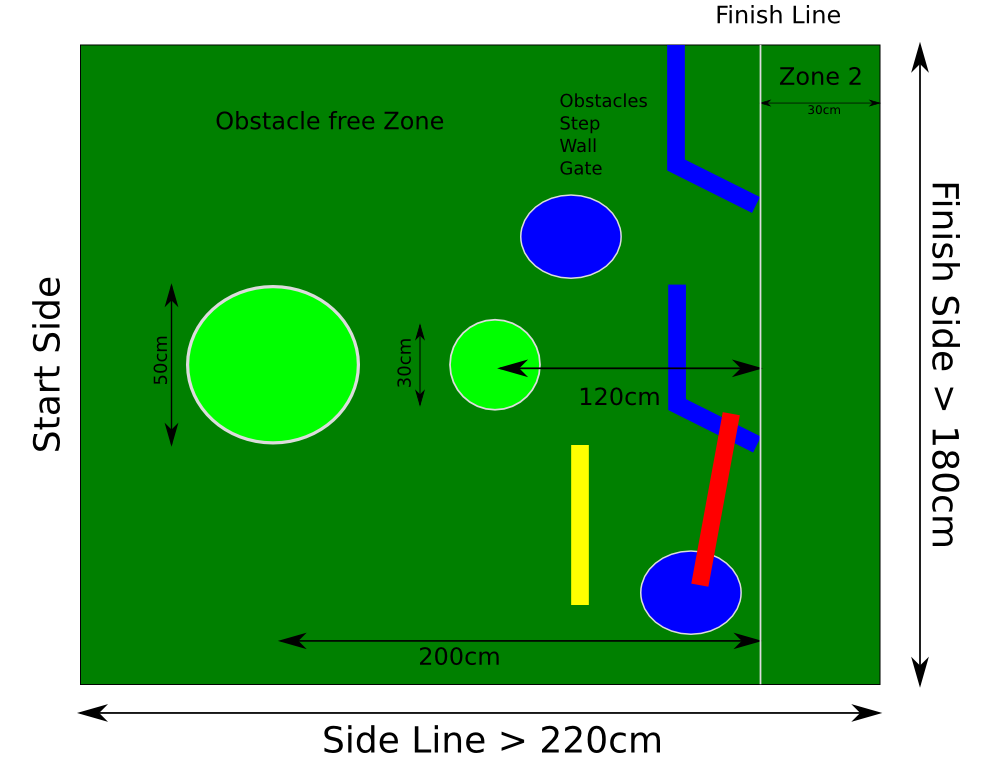
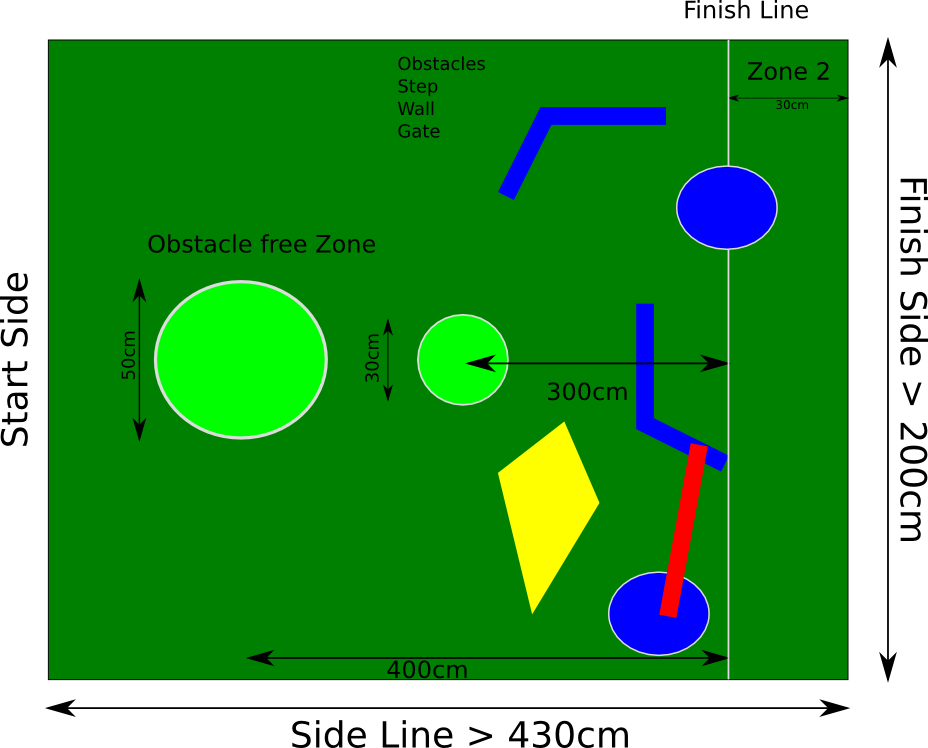
First version for HuroCup 2009

diff --git a/obstacle-run-laws.tex b/obstacle-run-laws.tex
@@ -45,11 +45,10 @@ always available from the FIRA \HuroCup\ website (http://www.fira.net).
 In the obstacle run challenge, the robot must move from one end of the
 playing field to the other as quickly as possible.
 
-There are three types of obstacles in the environment: (a) step
-obstacles that a sufficiently mobile robot can overcome by stepping
-over them, (b) wall obstacles which can not be overcome, and (c) gate
-obstacles that a sufficiently mobile robot can overcome by crawling
-under them.
+There are three types of obstacles in the environment: (a) hole
+obstacles that simulate holes in the floor, (b) wall obstacles which
+can not be overcome, and (c) gate obstacles that a sufficiently mobile
+robot can overcome by crawling under them.
 
 \section{Changes in the Laws of \HuroCup\ Obstacle Run for 2008}
 
@@ -68,8 +67,8 @@ the referees) please refer to the general \HuroCup\ laws.
 \label{law:or-field}
 
 \begin{lawlist}[OR]
-\item The dimensions of the playing field are at least 220cm by
-  180cm. 
+\item The dimensions of the playing field are at least 430cm by
+  200cm. 
 \item There is a finish line marked on one side of the playing field.
   This side of the playing field is called the finish side. The
   opposite side of the playing field is called the start side. The two
@@ -91,14 +90,14 @@ the referees) please refer to the general \HuroCup\ laws.
   of the playing field. The distance between the start point and the
   finish line depends on the category of the robot.
   \begin{enumerate}
-  \item The start point for small robots is 120 cm in front of the
+  \item The start point for small robots is 300 cm in front of the
     finish line. 
-  \item The start point for large robots is 200 cm in front of the
+  \item The start point for large robots is 400 cm in front of the
     finish line. 
   \end{enumerate}
-\item Teams may place small coloured or infra red markers in the area
-  behind the end zone to guide the robot as long as they do not
-  interfere with other teams.
+\item Teams may place small coloured markers in the area behind the
+  end zone to guide the robot as long as they do not interfere with
+  other teams.
 \end{lawlist}
 
 \law[OR]{Obstacles}
@@ -106,9 +105,9 @@ the referees) please refer to the general \HuroCup\ laws.
 
 \begin{lawlist}[OR]
 
-\item \label{or-obs-step} A step obstacle is a low obstacle. This type
-of obstacle is at most 2.5cm high and less than 5mm wide and a minimum
-length of 40cm. The colour of a step obstacle is yellow.
+\item \label{or-obs-hole} A hole obstacle is a thin obstacle on the
+  playing field. The shape and size of the hole obstacles is
+  undefined. The colour of a hole obstacle is yellow.
 
 \item \label{or-obs-wall} A wall obstacle is an obstacle that is
 placed on the floor and has a height of approximately 30cm. It has
@@ -117,8 +116,6 @@ a minimum length of 40cm. The colour of a wall obstacle is blue.
 \item \label{or-obs-gate} A gate obstacle is an obstacle that is
 placed at a height of approximately 30cm. It has
 a minimum length of 40cm. The colour of a gate obstacle is red.
-
-\item The shape of an obstacle is a either flat or circular.
 
 \item The following figure shows pictures of suitable obstacle.
 
@@ -156,6 +153,15 @@ a minimum length of 40cm. The colour of a gate obstacle is red.
     40cm as can be seen in Fig.~\ref{fig:obstacle-run}. 
   \end{itemize}
 \end{lawlist}
+
+\begin{decisions}
+
+\item A hole obstacle is supposed to simulate holes in the playing
+  field. Therefore, a robot is not allowed to touch such an
+  obstacle. However, the robot is allowed to step over a thin hole
+  obstacle
+
+\end{decisions}
 
 \law[OR]{Number of Robots}
 
@@ -218,9 +224,9 @@ the assitant referee.
     elapsed. 
   \item the robot is immobilized by a technical defect,
   \item the robot leaves the playing field,
-  \item the robot touches one of the wall or gate obstacles (In case
-    the obstacle was moved by the robot, the obstacle will be
-    repositioned by the referee),  
+  \item the robot touches one of the wall, hole, or gate obstacles (In
+    case the obstacle was moved by the robot, the obstacle will be
+    repositioned by the referee),
   \item at least two minutes have elapsed since the start of the
     competition and it is unlikely in the opinion of the referee that
     the robot will cross the finish line within the minute,

diff --git a/weight-lifting-laws.tex b/weight-lifting-laws.tex
@@ -65,13 +65,15 @@ the referees) please refer to the general \HuroCup\ laws.
 minimum dimension of 1.8m by 1.8m.
 
 \item There are three lines marked on the playing field: (a) the start line,
- (b) the lift line, and (c) the final line. The distance between the
+ (b) the lift line, and (c) the finish line. The distance between the
  start line and the lift line and the lift line and the finish line is
  30cm for small robots and 50cm for large robots.
 
-\item Teams may place small coloured or infra red markers in the area
- behind the end zone to guide the robot as long as they do not
- interfere with other teams.
+\item The width of the start, lift, and finish lines is between 3 to 7cm.
+
+\item Teams may place small coloured markers in the area behind the
+  end zone to guide the robot as long as they do not interfere with
+  other teams.
 
 \begin{figure}
   \begin{center}
@@ -81,14 +83,22 @@ minimum dimension of 1.8m by 1.8m.
 
 \end{lawlist}
 
+\begin{decisions}
+
+\item Teams are reminded that all sensing of the robot should be
+  similar to human sensing. This means that special light sensors or
+  infra-red sensors to detect the lines are not allowed.
+
+\end{decisions}
+
 \law[WL]{The Lifting Bar and the Weights}
 
 \begin{lawlist}[WL]
 
 \item The lifting bar is a wodden, metal, or plastic bar with a width
- between 8 mm to 15mm. Two stops are used to mount the weights. The
-distance between the inner stops is 30cm. The total length of the
-lifting bar is between 40 - 50cm.
+  between 8 mm to 15mm. Two stops are used to mount the weights. The
+  distance between the inner stops is at least 40cm. The total length
+  of the lifting bar is between 50 - 80cm.
 
 \item The ``weights'' used in the competition are standard 5 1/4 inch
  CDs or DVDs that must be lifted by the robot as seen in
@@ -149,13 +159,16 @@ the assitant referee.
 \item The referee will signal the start of the competition by blowing
   the whistle.
 
-\item After the referee gives the start signal, the robot must cross
- the lifting line while carrying the weight below head height of the
- robot.
+\item After the referee gives the start signal, the robot must pick up
+  the lifting bar positioned at the start line.
 
-\item While touching the lifting line, the robot must lift the lifting
- bar above its head. The height difference between the low and heigh
- position must be at least 15cm.
+\item The robot must walk towards the lifting line while continuously
+  carrying the weight below head height until a foot touches the
+  lifting line.
+
+\item While at least one foot is touching the lifting line, the robot
+  must lift the lifting bar above its head. The height difference
+  between the low and high position must be at least 15cm.
 
 \item While keeping the lifting bar above its head, the robot must
  continue to walk towards the finish line. A lift is considered

diff --git a/marathon-laws.tex b/marathon-laws.tex
@@ -47,11 +47,6 @@ the robustness and endurance of humanoid robots. The task is for the
 robot to track a visible line for a distance of 42.195m (1/1000 of a
 human marathon distance) as quickly as possible. 
 
-\section{Changes in the Laws of \HuroCup\ Marathon for 2008}
-
-There are no significant changes in the laws of the marathon event
-between 2007 and 2008.
-
 \section{Laws of the Game: Marathon}
 \label{sec:marathon-laws}
 
@@ -65,7 +60,8 @@ the referees) please refer to the general \HuroCup\ laws.
 
 \begin{lawlist}[MR]
 
-\item The track for the marathon event is on an even surface.
+\item The track for the marathon event is relatively smooth and does
+  not contain any spot with a height difference of more than 5mm.
 
 \item The centre of the track is marked with a 4 - 8cm wide coloured
 line, called the centre line.
@@ -92,6 +88,15 @@ line, called the centre line.
 
 \end{lawlist}
 
+\begin{decisions}
+
+\item The marathon will most likely be performed outdoors during
+  daylight hours. Teams must ensure that their robot is able to deal
+  with varying lighting conditions as well as small cracks or uneven
+  surfaces that may be found on regular pavement or concrete floors.
+
+\end{decisions}
+
 \law[MR]{Number of Robots}
 
 \begin{lawlist}[MR]
@@ -117,10 +122,11 @@ the assitant referee.
 
 \begin{lawlist}[MR]
 
-\item Robots are assigned start numbers. The race commences with a
-  staggered start of 3 minute intervals, that is the robot with start
-  number $n$ will start 3 minutes after the robot with start number
-  $n-1$.
+\item Robots are assigned start numbers approximately based on their
+  performance in the sprint event. Faster robots are given lower start
+  numbers. The race commences with a staggered start of 3 minute
+  intervals, that is the robot with start number $n$ will start 3
+  minutes after the robot with start number $n-1$.
 
 \item The start of a run for a robot is signaled by the referee
   blowing the whistle. After the referee blows the whistle, the robot
@@ -209,6 +215,14 @@ the assitant referee.
 \item \label{inf-batteries} Not withstanding~\ref{inf-fix}, a team is
   not allowed to change the batteries during the competition, changing
   the batteries will immediately terminate the race for this robot.
+
+\item \label{dead-reckoning} The robot must be able to sense the
+  track. A handler is not allowed to re-program the robot to execute a
+  pre-programmed set of motions (dead reckoning) to advance along the
+  track. The referee will imeediately terminate the race for a robot
+  that in the opinion of the referee does not sense the track
+  autonomously.
+
 \end{lawlist}
 
 \law[MR]{Method of Scoring}

diff --git a/hurocup-laws.tex b/hurocup-laws.tex
@@ -37,7 +37,7 @@
 \title{\HuroCup\\
   General Laws of the Game 2008}
 
-\author{Jacky Baltes and Thomas Br\"aunl\\
+\author{Jacky Baltes\\
 Autonomous Agents Laboratory\\
 University of Manitoba\\
 Winnipeg, Manitoba\\
@@ -247,8 +247,8 @@ examples are shown in the Fig.~\ref{fig:foot-dimension}.
   \end{figure}
 
   \begin{itemize}
-    \item \emph{Small robots} are limited to a maximum height of 50cm
-       and a maximum foot dimension of 14cm.
+    \item \emph{Small robots} are limited to a maximum height of 60cm
+       and a maximum foot dimension of 13cm.
     \item \emph{Large robots} must have a height of more than 80cm and
     are limited to a maximum height of 150cm and a maximum foot
     dimension of 35cm.  
@@ -316,9 +316,9 @@ material.
   are special kicking devices on the foot, spinning upper bodies, or
   feet that can kick at a 90 degree angle.
 
-\item The restriction on the sensors of the robot will not be enforced
-  until at least 2007. That is, robots are allowed to use infrared and
-  other sensors without restrictions in the 2007 competition.
+\item In 2009, the restriction on the sensors of the robot will be
+  strictly enforced. In particular, a robot is not allowed to use
+  sonar or infra-red sensors.
 
 \end{decisions}
 

diff --git a/sprint.tex b/sprint.tex
@@ -65,8 +65,8 @@ referees) please refer to the general \HuroCup\ laws.
 
 \begin{lawlist}[RD]
 
-\item The dimensions of the playing field are at least 220cm by
-  180cm. 
+\item The dimensions of the playing field are at least 430 by
+  200cm. 
   
 \item The playing field consists of a race track that run the whole
   width of the playing field.
@@ -89,17 +89,16 @@ referees) please refer to the general \HuroCup\ laws.
   robots. The race tracks are parallel to the side lines.
   \begin{enumerate}
   \item The length of the race track for small robots
-    is 120cm.
+    is 300cm.
   \item The length of the race track for large robots
-    is 200cm.
+    is 400cm.
   \end{enumerate}
 
 \item All lines are marked with are white and have a width between 5mm
   and 15mm.
   
-\item Teams may place small coloured or infra red markers in the end
-  zones to guide the robot as long as they do not interfere with other
-  teams.
+\item Teams may place small coloured markers in the end zones to guide
+  the robot as long as they do not interfere with other teams.
 \end{lawlist}
 
 \law[RD]{Number of Robots}

diff --git a/basketball-laws.tex b/basketball-laws.tex
@@ -75,7 +75,7 @@ the referees) please refer to the general \HuroCup\ laws.
 
   \begin{figure}
     \begin{center}
-      \includegraphics[width=0.7\textwidth]{Figures/basketball}
+      \includegraphics[width=0.7\textwidth]{Figures/basketball-field}
     \end{center}
     \caption{The field of play for basketball}
     \label{fig:field-basketball}
@@ -85,13 +85,13 @@ the referees) please refer to the general \HuroCup\ laws.
 
 \item A three point circle is drawn 
   \begin{itemize}
-    \item 40cm away from the basket for small robots,
+    \item 50cm away from the basket for small robots,
     \item 80cm away from the basket for large robots.
   \end{itemize}
 
 \item The start point for
   \begin{itemize}
-   \item small robots is 50cm in front of the basket in the center of
+   \item small robots is 75cm in front of the basket in the center of
     the playing field. 
    \item large robots is 75cm in front of the basket in the center of
     the playing field.

diff --git a/soccer-laws.tex b/soccer-laws.tex
@@ -166,11 +166,6 @@ individual events.
   individual teams to design their robots to cope with slight
   curvatures of the surface.
 
-\item The local organizing committee will try to provide a white wall at
-least 50cm high around the boundary area of the playing field. This
-will make sure that spectators can not interfere with the robots and
-provides easier localization for robots.
-
 \end{decisions}
 
 \law{The Ball}

diff --git a/lift-and-carry-laws.tex b/lift-and-carry-laws.tex
@@ -106,8 +106,8 @@ have different colours as shown in Fig.~\ref{fig:uneven-terrain}.
     \label{fig:uneven-terrain}
   \end{figure}
 
-\item Teams may place small coloured or infra red markers in the goal
-are as long as they do not interfere with other teams.
+\item Teams may place small coloured markers in the goal are as long
+  as they do not interfere with other teams.
 
 \end{lawlist}
 
